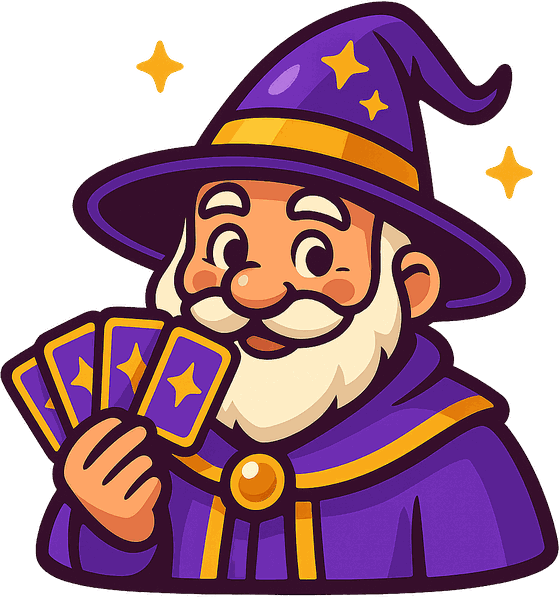
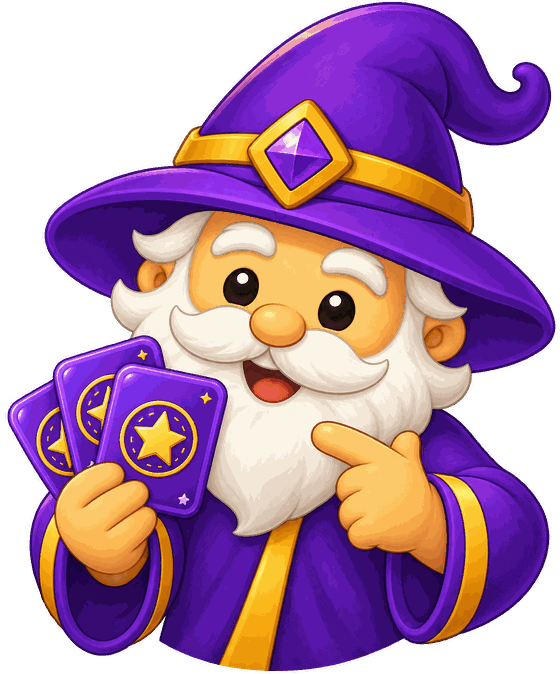
fix(minigry): splash Wizkora z gotowej ilustracji, nie z promptu
Prompt opisujacy styl pop-upow dawal plaska naklejke - blisko, ale obco. Ilustracja przychodzi teraz z gotowego pliku, skrypt generujacy znika, a dokumentacja mowi wprost, ze tego stylu nie odtwarzamy slowami.

diff --git a/docs/grafika.md b/docs/grafika.md
@@ -46,35 +46,30 @@ Paleta to te same barwy, co w `src/styles/ewolucja.css`. Jeśli kiedyś zmienimy
 tokeny UI, ten blok trzeba zmienić razem z nimi — inaczej gra rozjedzie się
 kolorystycznie z własną grafiką.
 
-### 2b. Drugie DNA — styl ilustracyjny (pop-upy, ekrany startu)
+### 2b. Drugi styl — ilustracje pop-upowe (pop-upy, ekrany startu)
 
 Glina jest dobra dla **assetów wewnątrz gry** (pionki, symbole kart, przedmioty).
 Ilustracje, które mówią do dziecka z całego ekranu — pop-upy zaproszeń, splash
-screeny minigier, tła — robimy w drugim stylu: grubej kresce wektorowej. Nie
-mieszamy ich w jednym kadrze.
+screeny minigier — są w drugim stylu: renderowana kreskówkowa ikona. Gruby,
+ciemny obrys wokół całej sylwetki, nasycony fiolet i złoto, gładkie cieniowanie
+z połyskiem i wyraźnymi światłami, duże okrągłe kształty. Bliżej ikony gry
+mobilnej niż płaskiego wektora.
 
-```
-STYLE: bold cartoon vector illustration for a children's fantasy game — the look
-of a hand-drawn storybook sticker, NOT clay, NOT 3D render. Every shape is
-enclosed by a thick, dark warm-brown #3A2350 outline of even weight. Flat
-saturated fills with crisp two-tone cel shading: one darker shade block for
-shadow, one lighter block for light, hard edges between them, plus a few sharp
-white specular highlights. Glossy, vivid and graphic. No soft airbrushed
-gradients, no matte clay texture, no photographic realism, no depth-of-field.
+Wzorce (nie ruszać, to referencja stylu):
 
-PALETTE: vivid violet #7A3FD0, deep violet #5C2FA8, light lilac #B886E8,
-amber gold #F4C95D, deep gold #E0A32E, cream #FBF1D6, warm white #FFFDF4,
-dark plum outline #3A2350.
-```
+- `frontend/public/wizPop.webp` — Wizkor z laską, pop-up zaproszenia
+- `frontend/public/lisPop.webp` — lisek, pop-up zaproszenia
+- `frontend/public/assets/karty/wizkor-karty.png` — Wizkor z kartami, splash
+
+**Tych ilustracji nie generujemy promptem z rozdziału 2.** Próba opisania stylu
+słowami (gruby obrys, cel shading, paleta) daje płaską naklejkę wektorową —
+podobną z daleka, obcą z bliska. Postacie w tym stylu przychodzą z zewnątrz jako
+gotowe pliki; nasza robota to kadr i odchudzenie (rozdział 4). Jeśli kiedyś
+wrócimy do generowania, punktem wyjścia jest `images.edit` z jednym z plików
+powyżej jako referencją, nie prompt pisany od zera.
 
 Kadr dla splash screenu: popiersie ucięte płasko dolną krawędzią kadru, postać
-wyśrodkowana, tło przezroczyste, nic poza bohaterem. Wzorzec: `assets/karty/
-wizkor-karty.png` (Wizkor z wachlarzem naszych rewersów).
-
-Model sam z siebie wraca do gliny, jeśli w prompcie zostanie choć jedno słowo
-z tamtego DNA („matte", „soft rounded") — bloki trzymamy rozdzielnie.
-
----
+wyśrodkowana, tło przezroczyste, nic poza bohaterem.
 
 ---
 
